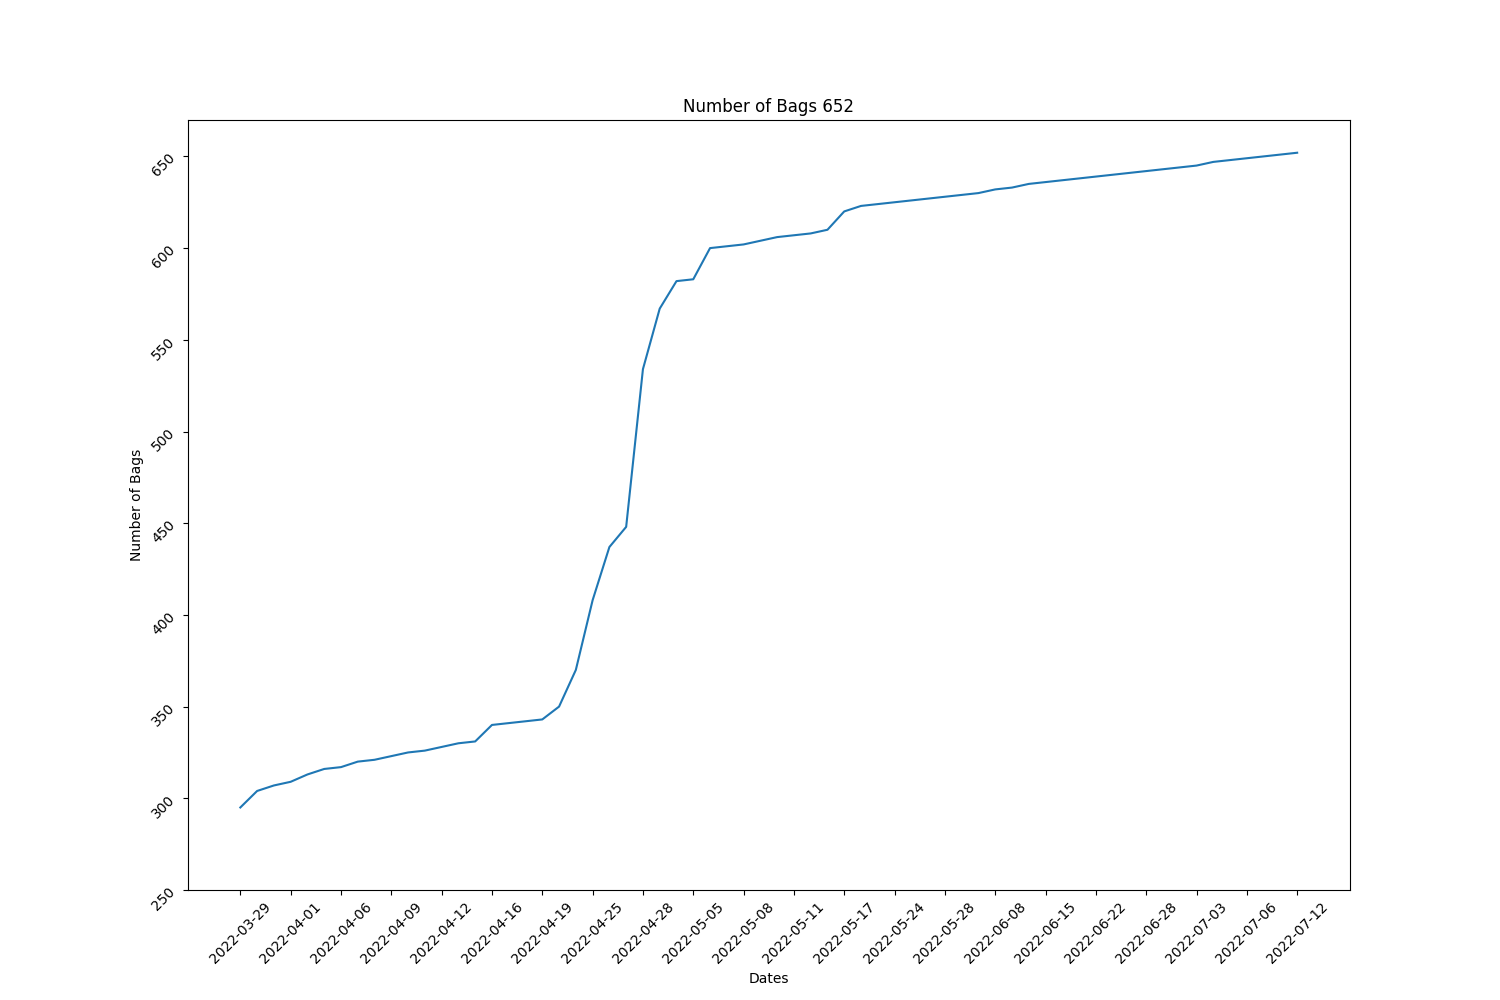
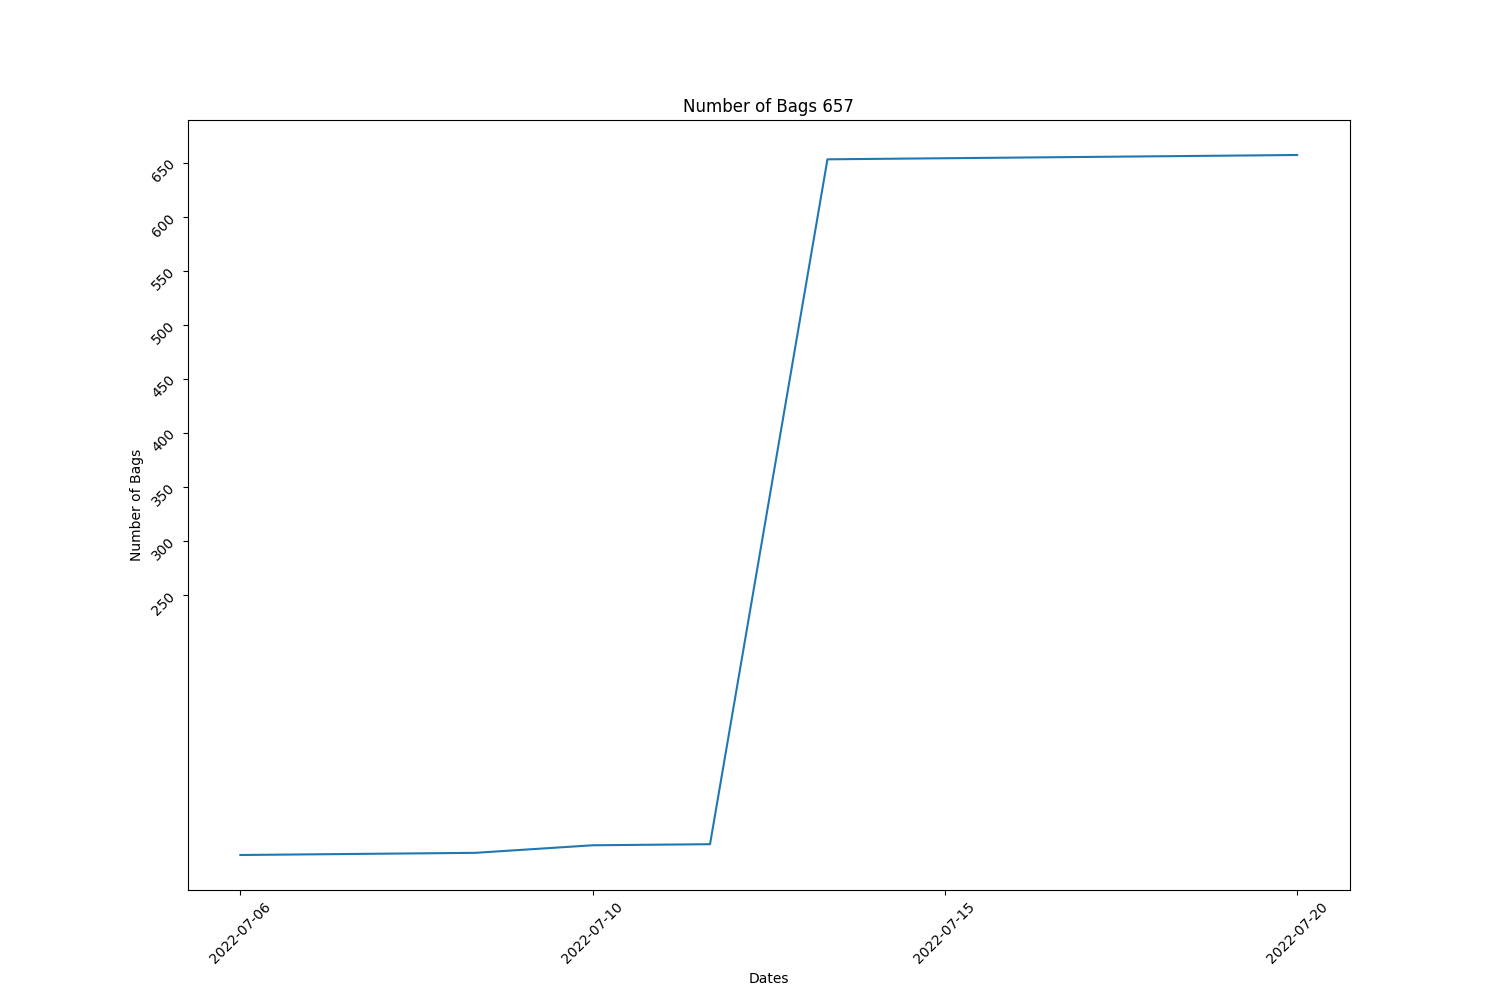
report 13 July

diff --git a/report_2022-07-23T00:53:30.004Z.md b/report_2022-07-23T00:53:30.004Z.md
@@ -1,12 +1,12 @@
-Full report for the Term: 15 
+Full report for the Term: 16 
 
-Start date: 2022-07-05  
+Start date: 2022-07-13  
 
-End date: 2022-07-13 
+End date: 2022-07-23 
 
-Start Block: 1483200 
+Start Block: 1598400 
 
-End Block: 1598400 
+End Block: 1742400 
 
 # Opening 
 Number of openings: 0 
@@ -17,105 +17,108 @@ Number of terminated workers: 0
 # Slashed workers 
 Number of slashed workers: 0 
 # Rewards
-Total Rewards: 9912822
+Total Rewards: 13699000
 | workerId               |   worker_total |
 |------------------------|----------------|
-| storageWorkingGroup-0  |        2076480 |
-| storageWorkingGroup-1  |         115360 |
-| storageWorkingGroup-10 |         605640 |
-| storageWorkingGroup-11 |         605640 |
-| storageWorkingGroup-13 |         605640 |
-| storageWorkingGroup-14 |         432600 |
-| storageWorkingGroup-15 |         424462 |
-| storageWorkingGroup-2  |         605640 |
-| storageWorkingGroup-3  |         605640 |
-| storageWorkingGroup-4  |         951720 |
-| storageWorkingGroup-5  |         605640 |
-| storageWorkingGroup-7  |        1067080 |
-| storageWorkingGroup-8  |         605640 |
-| storageWorkingGroup-9  |         605640 |
+| storageWorkingGroup-0  |        2595600 |
+| storageWorkingGroup-1  |         144200 |
+| storageWorkingGroup-10 |         865200 |
+| storageWorkingGroup-11 |         865200 |
+| storageWorkingGroup-13 |         865200 |
+| storageWorkingGroup-14 |         865200 |
+| storageWorkingGroup-15 |         865200 |
+| storageWorkingGroup-2  |         865200 |
+| storageWorkingGroup-3  |         865200 |
+| storageWorkingGroup-4  |         865200 |
+| storageWorkingGroup-5  |         865200 |
+| storageWorkingGroup-7  |        1442000 |
+| storageWorkingGroup-8  |         865200 |
+| storageWorkingGroup-9  |         865200 |
 # BUCKETS Info  
 |   id |   dataObjectsSize |   dataObjectsSizeLimit |   dataObjectsCount |   bags |   Utilization |   dataObjectsSize, GB |
 |------|-------------------|------------------------|--------------------|--------|---------------|-----------------------|
-|   14 |          13226270 |          1500000000000 |                  2 |      1 |   8.81751e-06 |             0.0123059 |
+|    6 |      920585269588 |          2000000000000 |              15076 |    654 |   0.460293    |           856.525     |
+|   13 |          13226270 |          1500000000000 |                  2 |      1 |   8.81751e-06 |             0.0123059 |
+|    8 |      920585269588 |          1500000000000 |              15076 |    654 |   0.613724    |           856.525     |
+|    9 |        2580456339 |          1000000000000 |                 12 |      1 |   0.00258046  |             2.40089   |
+|   15 |                 0 |          1500000000000 |                  0 |      0 |   0           |             0         |
 |   10 |          13226270 |          1500000000000 |                  2 |      1 |   8.81751e-06 |             0.0123059 |
 |   11 |          13226270 |          1500000000000 |                  2 |      1 |   8.81751e-06 |             0.0123059 |
-|    9 |        2580456339 |          1000000000000 |                 12 |      1 |   0.00258046  |             2.40089   |
-|   13 |          13226270 |          1500000000000 |                  2 |      1 |   8.81751e-06 |             0.0123059 |
-|    2 |      916397529386 |          1400000000000 |              15023 |    651 |   0.65457     |           852.629     |
-|    3 |      916397529386 |          1400000000000 |              15023 |    651 |   0.65457     |           852.629     |
-|    6 |      916397529386 |          2000000000000 |              15023 |    651 |   0.458199    |           852.629     |
-|   12 |                 0 |          1500000000000 |                  0 |      0 |   0           |             0         |
-|   15 |                 0 |          1500000000000 |                  0 |      0 |   0           |             0         |
-|    8 |      916397529386 |          1500000000000 |              15023 |    651 |   0.610932    |           852.629     |
 |    4 |          39678606 |          2000000000000 |                  6 |      1 |   1.98393e-05 |             0.0369175 |
-|    1 |      916397529386 |          2000000000000 |              15023 |    651 |   0.458199    |           852.629     |
-|    0 |         264524788 |          2000000000000 |                 40 |      1 |   0.000132262 |             0.246118  |
-## BUCKETS CREATED
-Bucket Created: 1
-|   id |   dataObjectsSize |   dataObjectsSizeLimit |   dataObjectsCount |   bags |   Utilization |   dataObjectsSize, GB |
-|------|-------------------|------------------------|--------------------|--------|---------------|-----------------------|
+|   12 |                 0 |          1500000000000 |                  0 |      0 |   0           |             0         |
 |   14 |          13226270 |          1500000000000 |                  2 |      1 |   8.81751e-06 |             0.0123059 |
+|    2 |      920585269588 |          1400000000000 |              15076 |    654 |   0.657561    |           856.525     |
+|    3 |      920585269588 |          1400000000000 |              15076 |    654 |   0.657561    |           856.525     |
+|    0 |         264524788 |          2000000000000 |                 40 |      1 |   0.000132262 |             0.246118  |
+|    1 |      920585269588 |          2000000000000 |              15076 |    654 |   0.460293    |           856.525     |
+## BUCKETS CREATED
+Bucket Created: 0
 ## BUCKETS DELETED
 Bucket Deleted: 0
 ## Bags
-Bags Created: 19 
+Bags Created: 8 
 
 Bags Deleted: 0 
 
 # Objects Info during this Council Period 
-Total Objects Size: 111 
+Total Objects Size: 232 
 
-Total Objects Size: 13680144591 bytes 
+Total Objects Size: 9404530931 bytes 
 
 ## Objects Size Distribution
 |   <10 MB |   <100 MB |   <1000 MB |   <10000 MB |   <100000 MB |   <1000000 MB |
 |----------|-----------|------------|-------------|--------------|---------------|
-|       57 |        93 |        108 |         111 |          111 |           111 |
+|      161 |       208 |        232 |         232 |          232 |           232 |
  
 |   0-10 MB |   10-100 MB |   100-1000 MB |   1000-10000 MB |   10000-100000 MB |   100000-10000000 MB |
 |-----------|-------------|---------------|-----------------|-------------------|----------------------|
-|        57 |          36 |            15 |               3 |                 0 |                    0 |
+|       161 |          47 |            24 |               0 |                 0 |                    0 |
 ## Objects Size Distribution Per Bag 
 |   id |   objects_num |   total_size bytes |   average_size bytes |
 |------|---------------|--------------------|----------------------|
-| 2001 |             2 |           79863537 |             39931768 |
-| 2049 |             2 |          291319199 |            145659599 |
-| 2118 |             2 |          353986802 |            176993401 |
-| 2198 |            12 |          427720762 |             35643396 |
-| 2239 |             7 |           11354243 |              1622034 |
-| 2298 |             2 |         1182342038 |            591171019 |
-| 2310 |             8 |         7893525983 |            986690747 |
-| 2324 |             2 |          687003302 |            343501651 |
-| 2604 |            50 |         2058364724 |             41167294 |
-| 2639 |            12 |          150811534 |             12567627 |
-| 2641 |             3 |           27733527 |              9244509 |
-| 2647 |             4 |           32257190 |              8064297 |
-| 2648 |             4 |          483786728 |            120946682 |
-| 2651 |             1 |              75022 |                75022 |
+| 2046 |             2 |            9873264 |              4936632 |
+| 2049 |             2 |            4632994 |              2316497 |
+| 2075 |            36 |          722124385 |             20059010 |
+| 2118 |            24 |          309803596 |             12908483 |
+| 2198 |            24 |         1602083810 |             66753492 |
+| 2298 |             2 |         1037294269 |            518647134 |
+| 2310 |             6 |         1569246080 |            261541013 |
+| 2318 |             2 |          131178494 |             65589247 |
+| 2320 |             4 |          244047688 |             61011922 |
+| 2324 |             2 |          423924863 |            211962431 |
+| 2408 |             4 |          228249672 |             57062418 |
+| 2604 |            71 |          893626744 |             12586292 |
+| 2639 |            20 |          337821308 |             16891065 |
+| 2652 |            10 |          164393568 |             16439356 |
+| 2653 |             2 |              22122 |                11061 |
+| 2654 |             2 |           59632769 |             29816384 |
+| 2655 |             6 |          257450010 |             42908335 |
+| 2656 |             4 |           11715980 |              2928995 |
+| 2657 |             2 |              19272 |                 9636 |
+| 2659 |             7 |         1397390043 |            199627149 |
 # Total object Info 
-Total Objects: 15093 
+Total Objects: 15146 
 
-Total Objects Size: 916860447204 bytes
+Total Objects Size: 921048187406 bytes
 
-Total Number of Bags in use: 622 bytes
+Total Number of Bags in use: 624 bytes
 
-Grand Total Number of Bags: 657 bytes
+Grand Total Number of Bags: 660 bytes
 
 ## Objects Size Distribution 
 |   <10 MB |   <100 MB |   <1000 MB |   <10000 MB |   <100000 MB |   <1000000 MB |
 |----------|-----------|------------|-------------|--------------|---------------|
-|     8865 |     12796 |      15000 |       15093 |        15093 |         15093 |
+|     8893 |     12837 |      15053 |       15146 |        15146 |         15146 |
  
 |   0-10 MB |   10-100 MB |   100-1000 MB |   1000-10000 MB |   10000-100000 MB |   100000-10000000 MB |
 |-----------|-------------|---------------|-----------------|-------------------|----------------------|
-|      8865 |        3931 |          2204 |              93 |                 0 |                    0 |
+|      8893 |        3944 |          2216 |              93 |                 0 |                    0 |
 ## Objects Size Distribution Per Bag 
 |   id |   objects_num |   total_size bytes |   average_size bytes |
 |------|---------------|--------------------|----------------------|
 | 2045 |           933 |        43241069533 |             46346269 |
 | 2112 |            66 |        32119879841 |            486664846 |
-| 2310 |            74 |        29617546693 |            400237117 |
+| 2310 |            76 |        30133498596 |            396493402 |
 | 2148 |            60 |        24788252201 |            413137536 |
 | 2072 |           304 |        24342398570 |             80073679 |
 | 2094 |            44 |        21364776673 |            485563106 |
@@ -133,7 +136,7 @@ Grand Total Number of Bags: 657 bytes
 | 2298 |            28 |        14586735880 |            520954852 |
 | 2206 |           168 |        11863864043 |             70618238 |
 | 2144 |           326 |        11194540770 |             34339082 |
-| 2324 |            32 |        10359525691 |            323735177 |
+| 2324 |            34 |        10783450554 |            317160310 |
 | 2092 |           243 |        10116875645 |             41633233 |
 | 2087 |           244 |         9777261477 |             40070743 |
 | 2089 |           185 |         9741579444 |             52657186 |
@@ -149,14 +152,14 @@ Grand Total Number of Bags: 657 bytes
 | 2168 |            10 |         8659410214 |            865941021 |
 | 2071 |            17 |         8610413913 |            506494936 |
 | 2077 |            87 |         8327381275 |             95717026 |
+| 2118 |            70 |         7791228073 |            111303258 |
 | 2098 |           128 |         7710894729 |             60241365 |
 | 2104 |           112 |         7513782443 |             67087343 |
-| 2118 |            56 |         7043602394 |            125778614 |
 | 2138 |            13 |         6971582762 |            536275597 |
 | 2186 |            54 |         6944424801 |            128600459 |
 | 2181 |            80 |         6912917468 |             86411468 |
 | 2050 |            34 |         6827845752 |            200818992 |
-| 2604 |           298 |         6698270168 |             22477416 |
+| 2604 |           302 |         6823947493 |             22595852 |
 | 2142 |           124 |         6507352696 |             52478650 |
 | 2082 |            99 |         6500821051 |             65664859 |
 | 2199 |           174 |         6207750574 |             35676727 |
@@ -190,8 +193,8 @@ Grand Total Number of Bags: 657 bytes
 | 2125 |            86 |         3466136034 |             40303907 |
 | 2194 |            11 |         3389437329 |            308130666 |
 | 2037 |            40 |         3328173852 |             83204346 |
+| 2318 |            34 |         3233266302 |             95096067 |
 | 2111 |            38 |         3157060604 |             83080542 |
-| 2318 |            32 |         3102087808 |             96940244 |
 | 2083 |            48 |         3058864111 |             63726335 |
 | 2107 |           107 |         3053957233 |             28541656 |
 | 2173 |             6 |         3031488750 |            505248125 |
@@ -202,8 +205,8 @@ Grand Total Number of Bags: 657 bytes
 | 2162 |            62 |         2879606854 |             46445271 |
 | 2115 |            10 |         2817013416 |            281701341 |
 | 2287 |            10 |         2788280385 |            278828038 |
+| 2198 |            66 |         2580568103 |             39099516 |
 | 2000 |            12 |         2580456339 |            215038028 |
-| 2198 |            64 |         2555908046 |             39936063 |
 | 2161 |            18 |         2540296800 |            141127600 |
 | 2058 |            36 |         2510362425 |             69732289 |
 | 2020 |           144 |         2510070296 |             17431043 |
@@ -217,10 +220,10 @@ Grand Total Number of Bags: 657 bytes
 | 2069 |             9 |         2109319755 |            234368861 |
 | 2191 |            42 |         2067535041 |             49227024 |
 | 2031 |            66 |         2058591611 |             31190781 |
+| 2320 |            26 |         2035219499 |             78277673 |
 | 2055 |             6 |         1973470236 |            328911706 |
 | 2245 |            60 |         1970002683 |             32833378 |
 | 2151 |             5 |         1951344352 |            390268870 |
-| 2320 |            24 |         1919844947 |             79993539 |
 | 2250 |            20 |         1749223967 |             87461198 |
 | 2051 |            54 |         1723512509 |             31916898 |
 | 2197 |             6 |         1721534883 |            286922480 |
@@ -234,12 +237,14 @@ Grand Total Number of Bags: 657 bytes
 | 2146 |            14 |         1499173443 |            107083817 |
 | 2091 |            48 |         1480055289 |             30834485 |
 | 2054 |            16 |         1423662758 |             88978922 |
+| 2659 |             7 |         1397390043 |            199627149 |
 | 2110 |            40 |         1382631599 |             34565789 |
 | 2073 |            12 |         1277273931 |            106439494 |
 | 2040 |             4 |         1228521312 |            307130328 |
 | 2196 |            42 |         1221515199 |             29083695 |
 | 2274 |            42 |         1213405645 |             28890610 |
 | 2315 |             4 |         1204110016 |            301027504 |
+| 2408 |            28 |         1168599817 |             41735707 |
 | 2263 |            20 |         1137998812 |             56899940 |
 | 2026 |            68 |         1126151665 |             16561053 |
 | 2044 |            74 |         1105256531 |             14935899 |
@@ -249,7 +254,6 @@ Grand Total Number of Bags: 657 bytes
 | 2121 |            15 |          989021053 |             65934736 |
 | 2113 |            11 |          977775034 |             88888639 |
 | 2200 |            30 |          952244820 |             31741494 |
-| 2408 |            24 |          940350145 |             39181256 |
 | 2219 |             4 |          912266718 |            228066679 |
 | 2644 |             5 |          864109903 |            172821980 |
 | 2203 |           124 |          831785954 |              6707951 |
@@ -267,6 +271,7 @@ Grand Total Number of Bags: 657 bytes
 | 2236 |            82 |          672629036 |              8202793 |
 | 2141 |            40 |          636625460 |             15915636 |
 | 2033 |             9 |          594431064 |             66047896 |
+| 2639 |            46 |          569780392 |             12386530 |
 | 2328 |            32 |          552091756 |             17252867 |
 | 2074 |            12 |          543483445 |             45290287 |
 | 2612 |             2 |          540435724 |            270217862 |
@@ -282,7 +287,6 @@ Grand Total Number of Bags: 657 bytes
 | 2323 |            12 |          474043711 |             39503642 |
 | 2233 |            12 |          470828936 |             39235744 |
 | 2208 |            22 |          459146947 |             20870315 |
-| 2639 |            40 |          451007737 |             11275193 |
 | 2122 |             4 |          446299158 |            111574789 |
 | 2085 |            26 |          443306368 |             17050244 |
 | 2220 |            22 |          427289253 |             19422238 |
@@ -302,6 +306,7 @@ Grand Total Number of Bags: 657 bytes
 | 2183 |             7 |          271682346 |             38811763 |
 | 2343 |            14 |          265504499 |             18964607 |
 | 2333 |            40 |          264524788 |              6613119 |
+| 2655 |             6 |          257450010 |             42908335 |
 | 2492 |            16 |          256267524 |             16016720 |
 | 2043 |             7 |          253915593 |             36273656 |
 | 2129 |            11 |          246533312 |             22412119 |
@@ -324,6 +329,7 @@ Grand Total Number of Bags: 657 bytes
 | 2619 |             2 |          174258584 |             87129292 |
 | 2227 |            28 |          169410029 |              6050358 |
 | 2260 |             4 |          166816943 |             41704235 |
+| 2652 |            10 |          164393568 |             16439356 |
 | 2607 |             2 |          163081311 |             81540655 |
 | 2041 |             4 |          162318133 |             40579533 |
 | 2316 |             3 |          162138050 |             54046016 |
@@ -371,7 +377,6 @@ Grand Total Number of Bags: 657 bytes
 | 2603 |            14 |           50172207 |              3583729 |
 | 2472 |             4 |           50003156 |             12500789 |
 | 2630 |             4 |           48744462 |             12186115 |
-| 2652 |             8 |           48270829 |              6033853 |
 | 2509 |            16 |           47691620 |              2980726 |
 | 2164 |             4 |           47656478 |             11914119 |
 | 2514 |             4 |           46660215 |             11665053 |
@@ -458,7 +463,6 @@ Grand Total Number of Bags: 657 bytes
 | 2453 |             6 |           14850186 |              2475031 |
 | 2396 |             4 |           14792347 |              3698086 |
 | 2296 |             2 |           14777073 |              7388536 |
-| 2655 |             2 |           14657062 |              7328531 |
 | 2473 |             4 |           14485935 |              3621483 |
 | 2325 |             4 |           14477791 |              3619447 |
 | 2420 |             4 |           14386733 |              3596683 |
@@ -722,6 +726,7 @@ Grand Total Number of Bags: 657 bytes
 | 2653 |             2 |              22122 |                11061 |
 | 2349 |             2 |              20756 |                10378 |
 | 2608 |             2 |              19750 |                 9875 |
+| 2657 |             2 |              19272 |                 9636 |
 | 2643 |             2 |              17680 |                 8840 |
 | 2358 |             2 |              17574 |                 8787 |
 | 2631 |             2 |              15580 |                 7790 |
@@ -737,34 +742,45 @@ Grand Total Number of Bags: 657 bytes
 | 2646 |             1 |               3318 |                 3318 |
 
 
-![objects sizes](./objects_size_2022-07-13.png) 
-![objects number](./objects_number_2022-07-13.png)  
-![objects sizes](./bags_number_2022-07-13.png) 
+![objects sizes](./objects_size_2022-07-23.png) 
+![objects number](./objects_number_2022-07-23.png)  
+![objects sizes](./bags_number_2022-07-23.png) 
 # Lost Objects - GraphQl 
-Total Objects: 111 
+Total Objects: 232 
 
-Total Lost Objects: 19 
+Total Lost Objects: 30 
 
-Percentage Lost Objects: %17.117117117117118 
+Percentage Lost Objects: %12.931034482758621 
 
-|    id | createdAt                |       size |   storageBagId |
-|-------|--------------------------|------------|----------------|
-| 14892 | 2022-07-07T12:53:54.000Z |      13254 |           2604 |
-| 14871 | 2022-07-06T21:29:42.000Z | 3373945809 |           2310 |
-| 14882 | 2022-07-07T06:15:54.000Z |       6308 |           2604 |
-| 14873 | 2022-07-07T06:04:42.000Z |   18937174 |           2604 |
-| 14879 | 2022-07-07T06:13:30.000Z |   16344153 |           2604 |
-| 14880 | 2022-07-07T06:13:30.000Z |       6298 |           2604 |
-| 14891 | 2022-07-07T12:53:54.000Z |  122011088 |           2604 |
-| 14896 | 2022-07-07T12:56:30.000Z |      13622 |           2604 |
-| 14905 | 2022-07-07T13:04:30.000Z |   30790234 |           2604 |
-| 14907 | 2022-07-07T13:07:24.000Z |   30790234 |           2604 |
-| 14908 | 2022-07-07T13:07:24.000Z |      12764 |           2604 |
-| 14924 | 2022-07-08T11:48:18.000Z |      18394 |           2239 |
-| 14920 | 2022-07-08T09:43:00.000Z |      12568 |           2604 |
-| 14925 | 2022-07-08T11:56:12.000Z |    2848208 |           2239 |
-| 14937 | 2022-07-09T01:56:48.000Z |      10644 |           2639 |
-| 14939 | 2022-07-09T05:43:48.000Z |      40668 |           2198 |
-| 14941 | 2022-07-09T06:18:06.000Z |      40668 |           2198 |
-| 14943 | 2022-07-09T07:20:36.000Z |      13428 |           2604 |
-| 14966 | 2022-07-12T11:13:30.001Z |   24391109 |           2604 | 
+|    id | createdAt                |      size |   storageBagId |
+|-------|--------------------------|-----------|----------------|
+| 14980 | 2022-07-13T09:06:54.000Z |     26688 |           2604 |
+| 14978 | 2022-07-13T09:05:18.000Z |     26684 |           2604 |
+| 14979 | 2022-07-13T09:06:54.000Z |  58237695 |           2604 |
+| 14990 | 2022-07-13T20:37:54.000Z |      5470 |           2075 |
+| 15003 | 2022-07-14T12:07:54.000Z |  31587353 |           2075 |
+| 15004 | 2022-07-14T12:07:54.000Z |     31104 |           2075 |
+| 15017 | 2022-07-15T08:16:48.000Z |  67284165 |           2604 |
+| 15026 | 2022-07-15T15:13:12.000Z |     17780 |           2653 |
+| 15025 | 2022-07-15T15:13:12.000Z |      4342 |           2653 |
+| 15037 | 2022-07-15T20:52:06.000Z |  10099496 |           2075 |
+| 15030 | 2022-07-15T20:18:18.000Z |      8890 |           2075 |
+| 15038 | 2022-07-15T20:52:06.000Z |      5018 |           2075 |
+| 15049 | 2022-07-16T08:02:48.000Z |  54160657 |           2604 |
+| 15050 | 2022-07-16T08:02:48.000Z |     17674 |           2604 |
+| 15047 | 2022-07-16T07:55:54.000Z |     17674 |           2604 |
+| 15051 | 2022-07-16T08:05:42.000Z |  54160657 |           2604 |
+| 15052 | 2022-07-16T08:05:42.000Z |     17674 |           2604 |
+| 15056 | 2022-07-16T08:11:54.006Z |     13756 |           2604 |
+| 15062 | 2022-07-16T08:23:54.000Z |     16194 |           2604 |
+| 15064 | 2022-07-16T08:27:48.000Z |     16194 |           2604 |
+| 15068 | 2022-07-16T09:11:06.000Z |     13834 |           2604 |
+| 15070 | 2022-07-16T09:14:12.000Z |     13834 |           2604 |
+| 15074 | 2022-07-16T09:20:00.000Z |     17936 |           2604 |
+| 15080 | 2022-07-16T09:34:24.000Z |  18014377 |           2604 |
+| 15081 | 2022-07-16T09:34:24.000Z |     11596 |           2604 |
+| 15083 | 2022-07-16T09:37:00.000Z |     11572 |           2604 |
+| 15168 | 2022-07-21T10:24:42.000Z |     16866 |           2604 |
+| 15188 | 2022-07-22T10:46:18.000Z | 661387101 |           2659 |
+| 15189 | 2022-07-22T10:46:18.000Z |     41486 |           2659 |
+| 15193 | 2022-07-22T11:03:24.000Z |     40804 |           2659 | 
